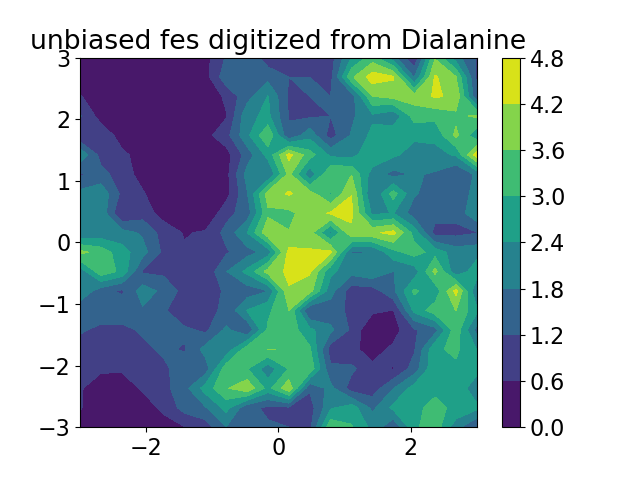
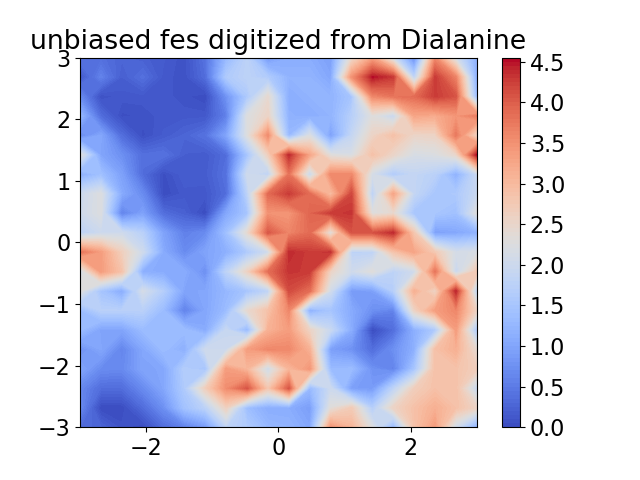
added coolwarm cmap.
added coolwarm cmap.
found the error is coming from Markov_mfpt_calc()

diff --git a/2D_model_potential_TW/main.py b/2D_model_potential_TW/main.py
@@ -235,7 +235,7 @@ if __name__ == "__main__":
             # so we don't need to transform it back. only those calculated FES need to be transformed back.
 
             plt.figure()
-            plt.contourf(x,y,total_bias)
+            plt.contourf(x,y,total_bias, cmap="coolwarm", levels=100)
             plt.plot(y[state_start], -x[state_start], marker = 'x') #this is starting point.
             plt.plot(y[state_end], -x[state_end], marker = 'o') #this is ending point.
             plt.plot(y[closest_index_xy[1]][0], -x[0][closest_index_xy[0]], marker = 'v') #this is local run farest point.
@@ -246,7 +246,7 @@ if __name__ == "__main__":
             
             
             plt.figure()
-            plt.contourf(x,y,transform_F(F_biased, N))
+            plt.contourf(x,y,transform_F(F_biased, N), cmap="coolwarm", levels=100)
             plt.plot(y[state_start], -x[state_start], marker = 'x') #this is starting point.
             plt.plot(y[state_end], -x[state_end], marker = 'o') #this is ending point.
             plt.plot(y[closest_index_xy[1]][0], -x[0][closest_index_xy[0]], marker = 'v') #this is local run farest point.

diff --git a/2D_model_potential_TW/dham.py b/2D_model_potential_TW/dham.py
@@ -107,11 +107,17 @@ class DHAM:
                         else:
                             MM[i, j] = 0
             #MM = MM.T
-            epsilon_offset = 1e-15
-            MM = MM / (np.sum(MM, axis=1)[:, None]+epsilon_offset) #normalize the M matrix #this is returning NaN?.
+            #epsilon_offset = 1e-15
+            #MM = MM / (np.sum(MM, axis=1)[:, None]) #normalize the M matrix #this is returning NaN?.
+            for i in range(MM.shape[0]):
+                if np.sum(MM[i, :]) > 0:
+                    MM[i, :] = MM[i, :] / np.sum(MM[i, :])
+                else:
+                    MM[i, :] = 0
         else:
             raise NotImplementedError
         
+        print(MM)
         #plt.contourf(MM.real)
         return MM.real
 
@@ -157,7 +163,7 @@ class DHAM:
         mU2 = compute_free_energy(MM, self.KbT)[1]
 
         plt.figure()
-        plt.contourf(transform_F(mU2, self.numbins))
+        plt.contourf(transform_F(mU2, self.numbins), cmap="coolwarm", levels=100)
         plt.colorbar()
         plt.savefig(f"./figs/DHAM_{self.time_tag}_{self.prop_index}.png")
         plt.show()

diff --git a/2D_model_potential_TW/test.py b/2D_model_potential_TW/test.py
@@ -34,7 +34,7 @@ state_end_index = np.ravel_multi_index(state_end, (N,N), order='C')
 #plot the free energy surface
 
 plt.figure()
-plt.contourf(x,y,transform_F(F, N))#, levels=np.arange(0, 15, 0.5))
+plt.contourf(x,y,transform_F(F, N), cmap="coolwarm", levels=100)#, levels=np.arange(0, 15, 0.5))
 plt.colorbar()
 plt.title("unbiased fes digitized from Dialanine")
 plt.savefig("./figs/unbiased.png")

diff --git a/2D_model_potential_TW/util_2d.py b/2D_model_potential_TW/util_2d.py
@@ -69,8 +69,8 @@ def create_K_png(N, img_path = "./fes_digitize.png", kT = 0.5981):
 
     #we only take points in image every ? steps so it has [N,N] shape.
     img = img[::int(img.shape[0]/N), ::int(img.shape[1]/N)]
-    plt.imshow(img)
-    plt.show()
+    #plt.imshow(img)
+    #plt.show()
     Z = img * amp
 
     #now we create the K matrix.
